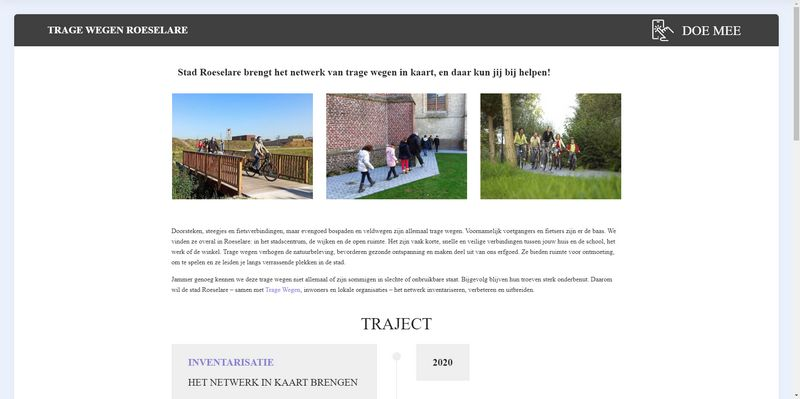
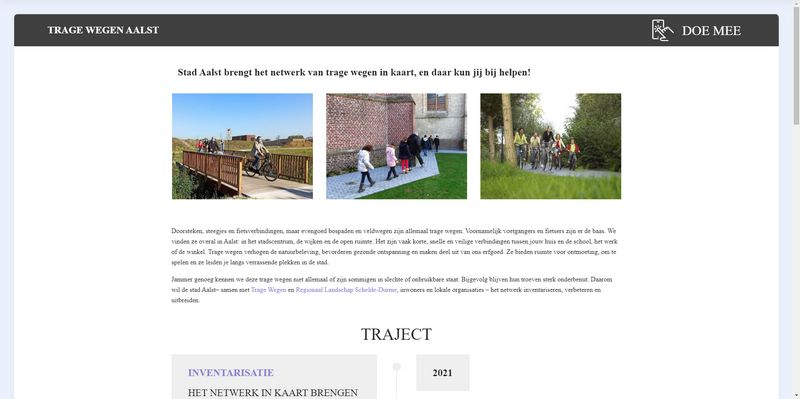
iframe custom map
via notepad eigenhandig iframe toegevoegd

diff --git a/page1.html b/page1.html
@@ -195,7 +195,7 @@
     <div class="container">
         <div class="media-container-row">
             <div class="col-md-8">
-                <div class="google-map"><iframe frameborder="0" style="border:0" src="https://www.google.com/maps/embed/v1/place?key=AIzaSyDk89J4FSunMF33ruMVWJaJht_Ro0kvoXs&amp;q=iframe" allowfullscreen=""></iframe></div>
+                <div class="custom_map"><iframe src="https://qgiscloud.com/tragewegen/Trage_wegen_Aalst_online/?bl=mapnik&l=grid_aalst_2020%2Caalst_grens_20%2Cwerkkaart_aalst_2020&t=Trage_wegen_Aalst_online&e=433941%2C6605495%2C466453%2C6621370" width="640" height="480"></iframe></div>
         </div>
     </div>
 </div></section>
